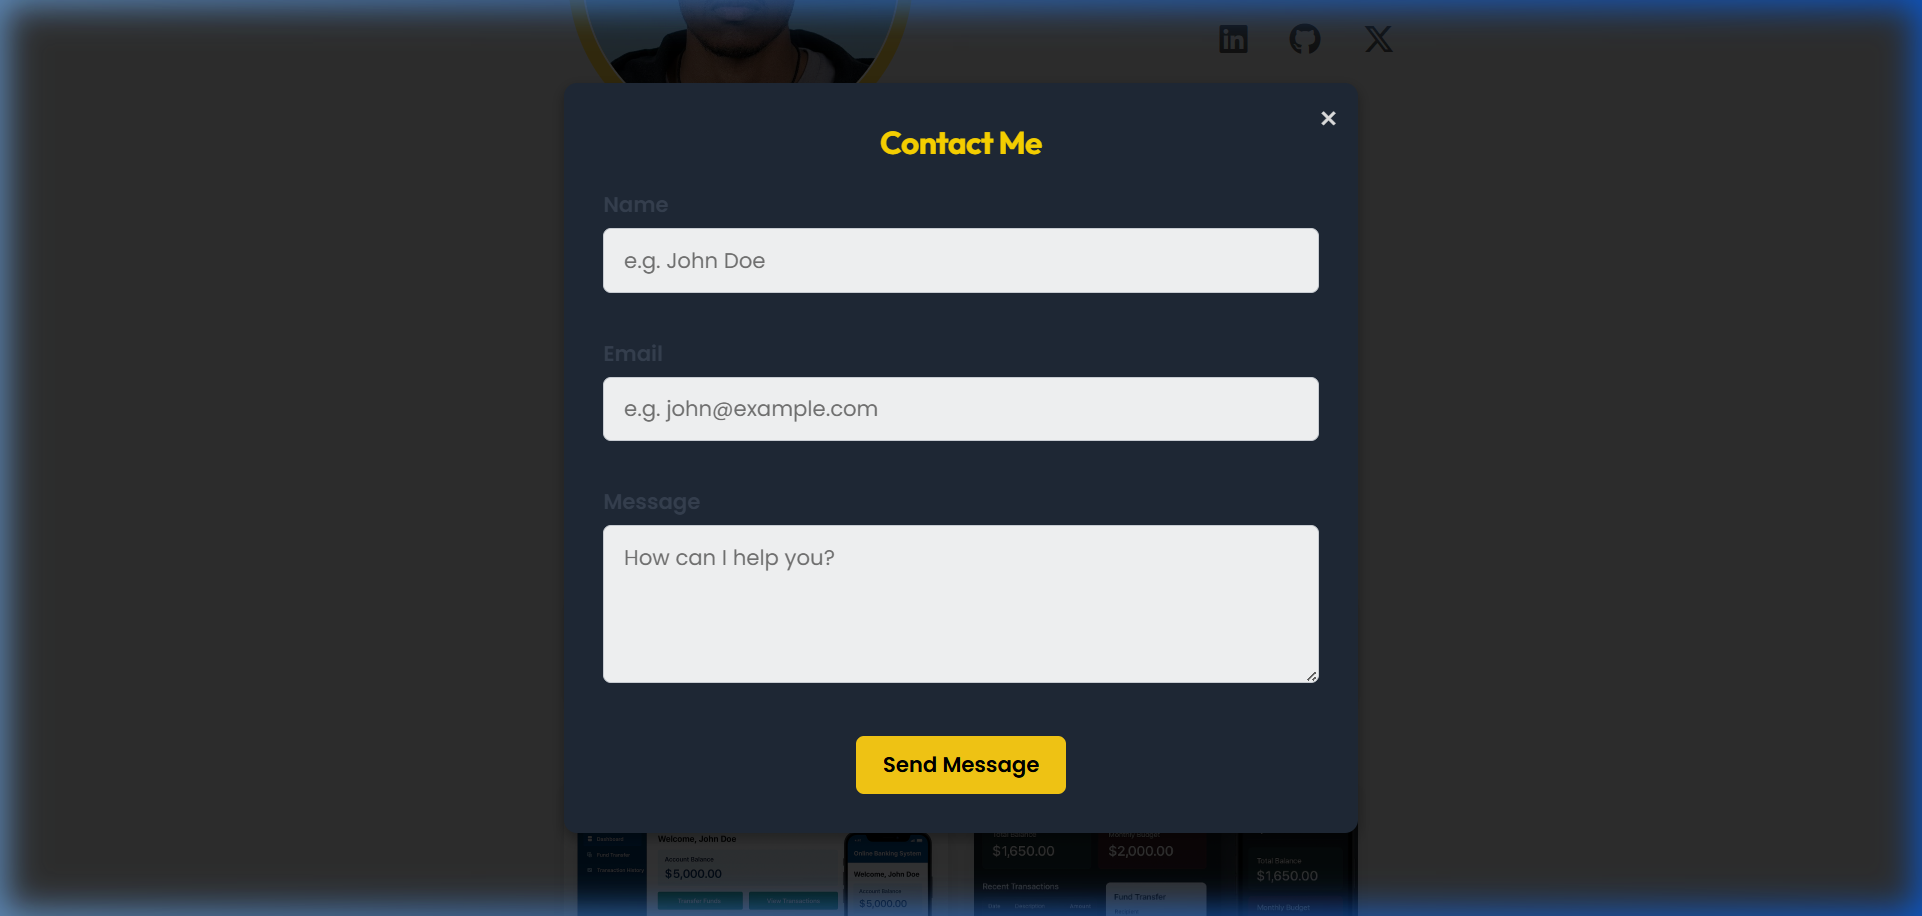
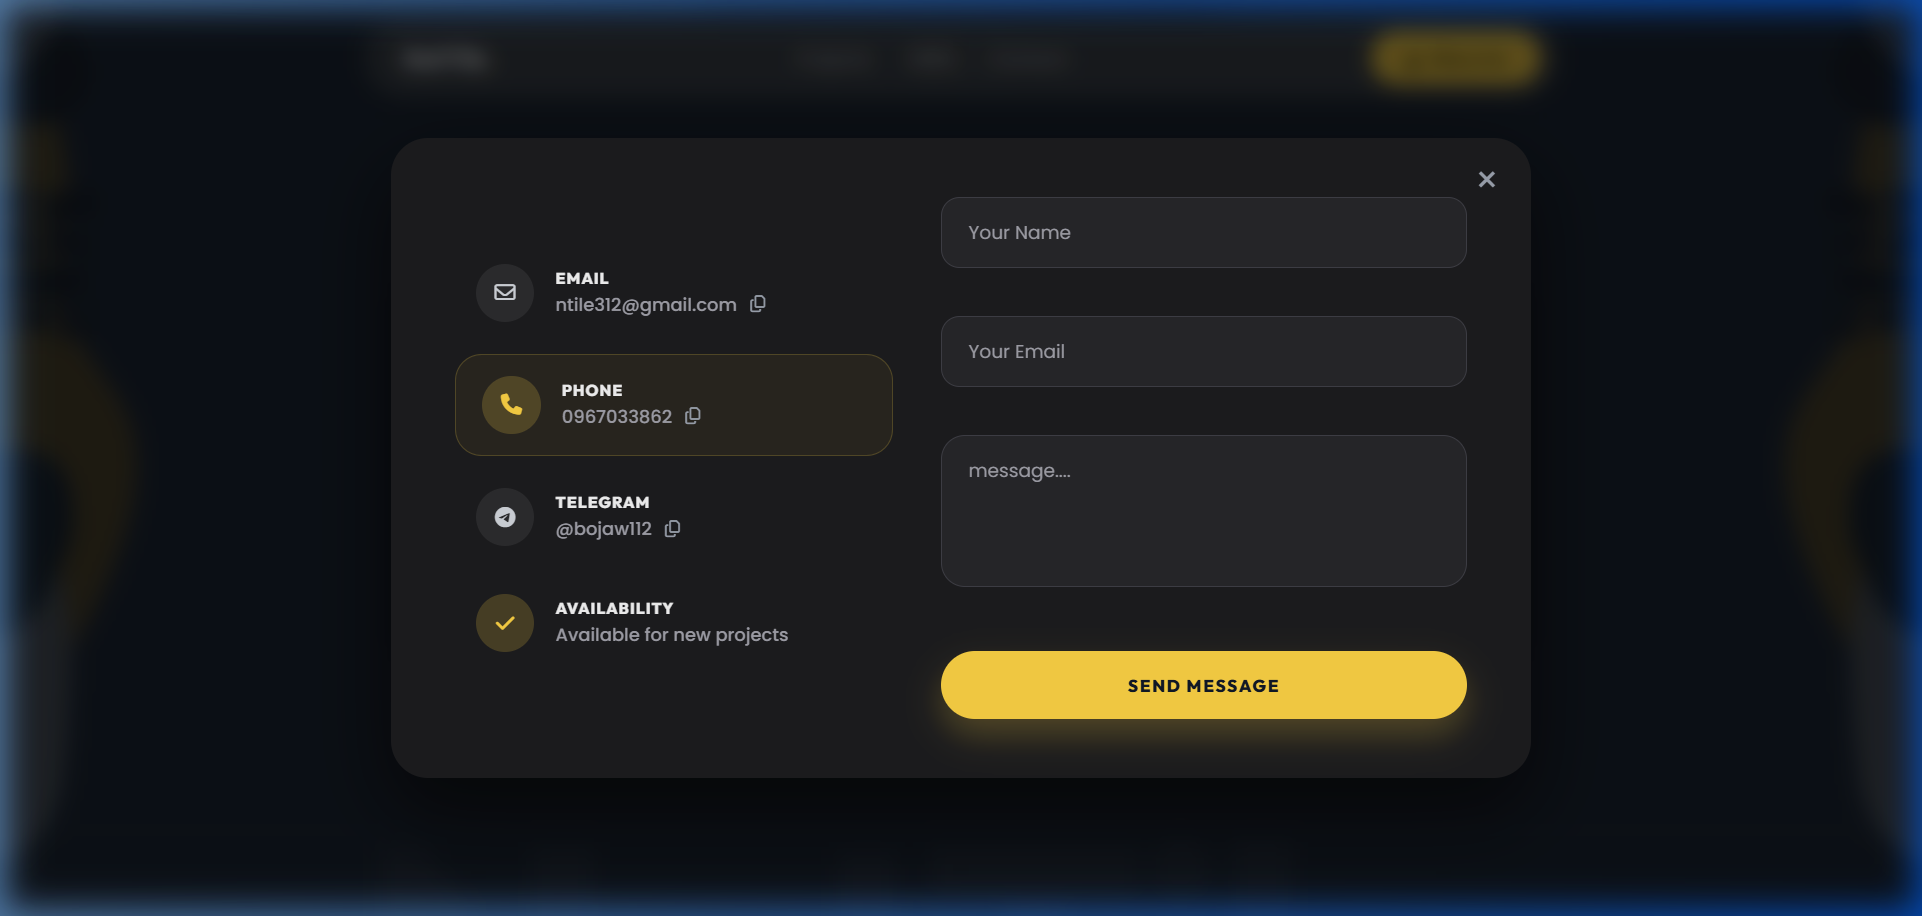
docs: update screenshots to reflect the new UI and delete outdated ones

diff --git a/README.md b/README.md
@@ -45,11 +45,11 @@ npx serve .
 ### 🌙 Dark Mode Homepage
 ![Dark Mode Homepage](screenshots/dark-mode.png)
 
-### 💻 Interactive Project Detail Modal
-![Project Modal](screenshots/project-modal.png)
+### 🎠 Swiper Projects Carousel
+![Projects Carousel](screenshots/projects-carousel.png)
 
-### 🛠 Technical Skills Tab
-![Skills Tab](screenshots/skills-tab.png)
+### 🛠 Technical Skills Section
+![Skills Section](screenshots/skills-section.png)
 
 ### 📩 Contact Modal
 ![Contact Modal](screenshots/contact-modal.png)
